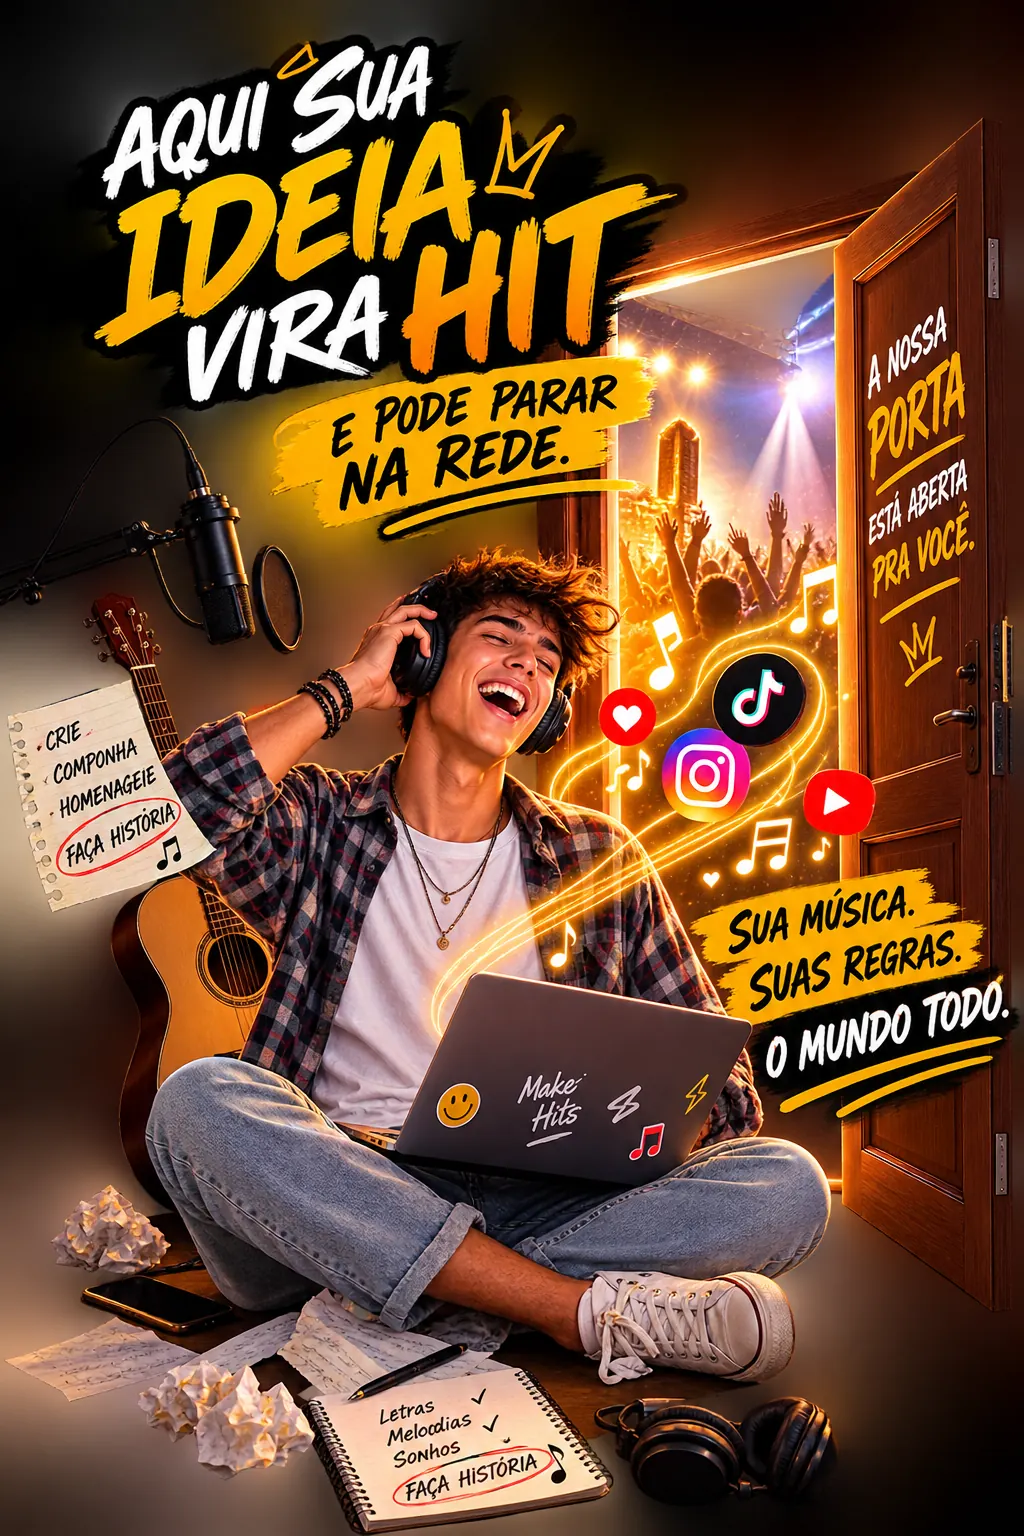
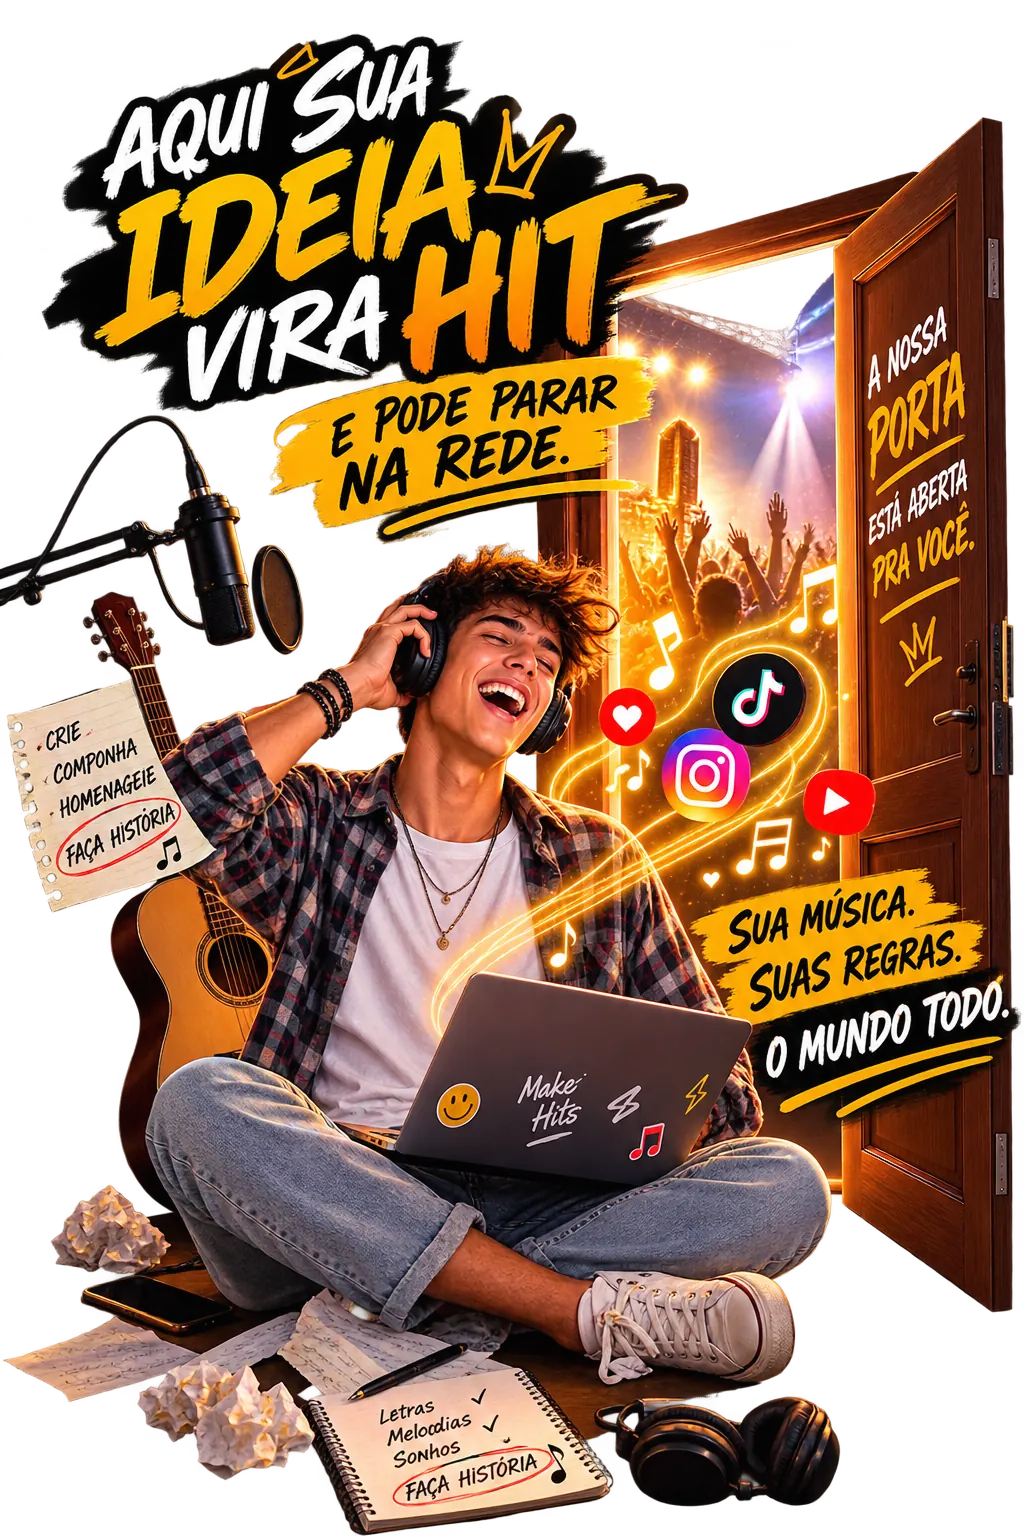
feat(home): arte "ideia vira hit" passa a usar a versao com fundo transparente
Pedido do Audrei. A versao anterior era um retangulo preto opaco: contra
o #07060d da pagina ela desenhava uma "caixa" com halo ambar visivel nos
quatro cantos. A nova tem canal alpha real e os cantos se dissolvem no
fundo.

Conferi o alpha antes de usar (ja tomei artefato de xadrez-pintado nesta
mesma sessao): RGBA de verdade, 27,4% transparente, conteudo em 252-253.
Nao e um recorte isolando a pessoa — o preto imediatamente ao redor dela
segue opaco, so as bordas externas somem. Foi o suficiente pro ganho
visual, conferido lado a lado sobre a cor real da secao.

WebP q78 com alpha: 371KB na origem (218KB a versao sem alpha — a
transparencia cobra isso). Legibilidade do bilhete "CRIE / COMPONHA /
HOMENAGEIE" identica ao PNG original em zoom 2x.

Verifiquei que o Next nao perde a transparencia ao reotimizar: com o
Accept header que um browser real manda, /_next/image devolve
image/webp (193KB na variante 1080w) com o alpha byte a byte igual ao da
origem — 27,4% transparente, rosto/camisa/notebook opacos, cantos zero.

Changed region(s): [[0.0, 0.0, 1.0, 1.0], [0.5, 0.4688, 0.5312, 0.5312], [0.3438, 0.8438, 0.375, 0.875]]

diff --git a/app/page.tsx b/app/page.tsx
@@ -658,16 +658,28 @@ export default function Home() {
             </div>
 
             {/* Imagem de impacto (troca pedida pelo Audrei — substitui a arte
-                das duas portas). WebP q78, 218KB: comparei o bilhete "CRIE /
-                COMPONHA / HOMENAGEIE" contra o PNG original com zoom 2x e o
-                texto pequeno continua igual, então não vale pagar os 293KB
-                do q86.
+                das duas portas). Trocada de novo (pedido do Audrei): a
+                versão original vinha num retângulo preto opaco, que contra
+                o fundo #07060d da página desenhava uma "caixa" com halo
+                âmbar visível nos quatro cantos. Esta tem canal alpha real
+                (conferido em Python: não é o xadrez-pintado que já causou
+                artefato nesta mesma sessão) — os cantos ficam transparentes
+                e o resto opaco, então a arte se dissolve no fundo da página
+                em vez de flutuar dentro de uma caixa. Ainda não é um recorte
+                isolando só a pessoa: o preto imediatamente ao redor dele
+                (a "cena") continua opaco, só as bordas externas somem.
+
+                WebP q78 com alpha, 362KB (218KB a versão anterior sem
+                canal alpha — a transparência cobra esse preço, mas o ganho
+                visual é real, não só estético: testei lado a lado sobre a
+                cor de fundo real da seção). Legibilidade do bilhete "CRIE /
+                COMPONHA / HOMENAGEIE" idêntica ao PNG original em zoom 2x.
 
                 `sizes` com o teto real da coluna (~520px = metade do
                 container de 1104px menos o gap), não "100vw" — sem o teto o
                 Next pede a maior variante em qualquer tela larga mesmo a
                 imagem nunca desenhando mais que isso. Já errei isso duas
-                vezes nesta home (colagem do hero e a arte anterior daqui). */}
+                vezes nesta home antes de acertar aqui. */}
             <div className="order-1 lg:order-none rounded-3xl overflow-hidden w-full max-w-[26rem] mx-auto lg:max-w-none">
               <Image
                 src="/images/ideia-vira-hit.webp"
